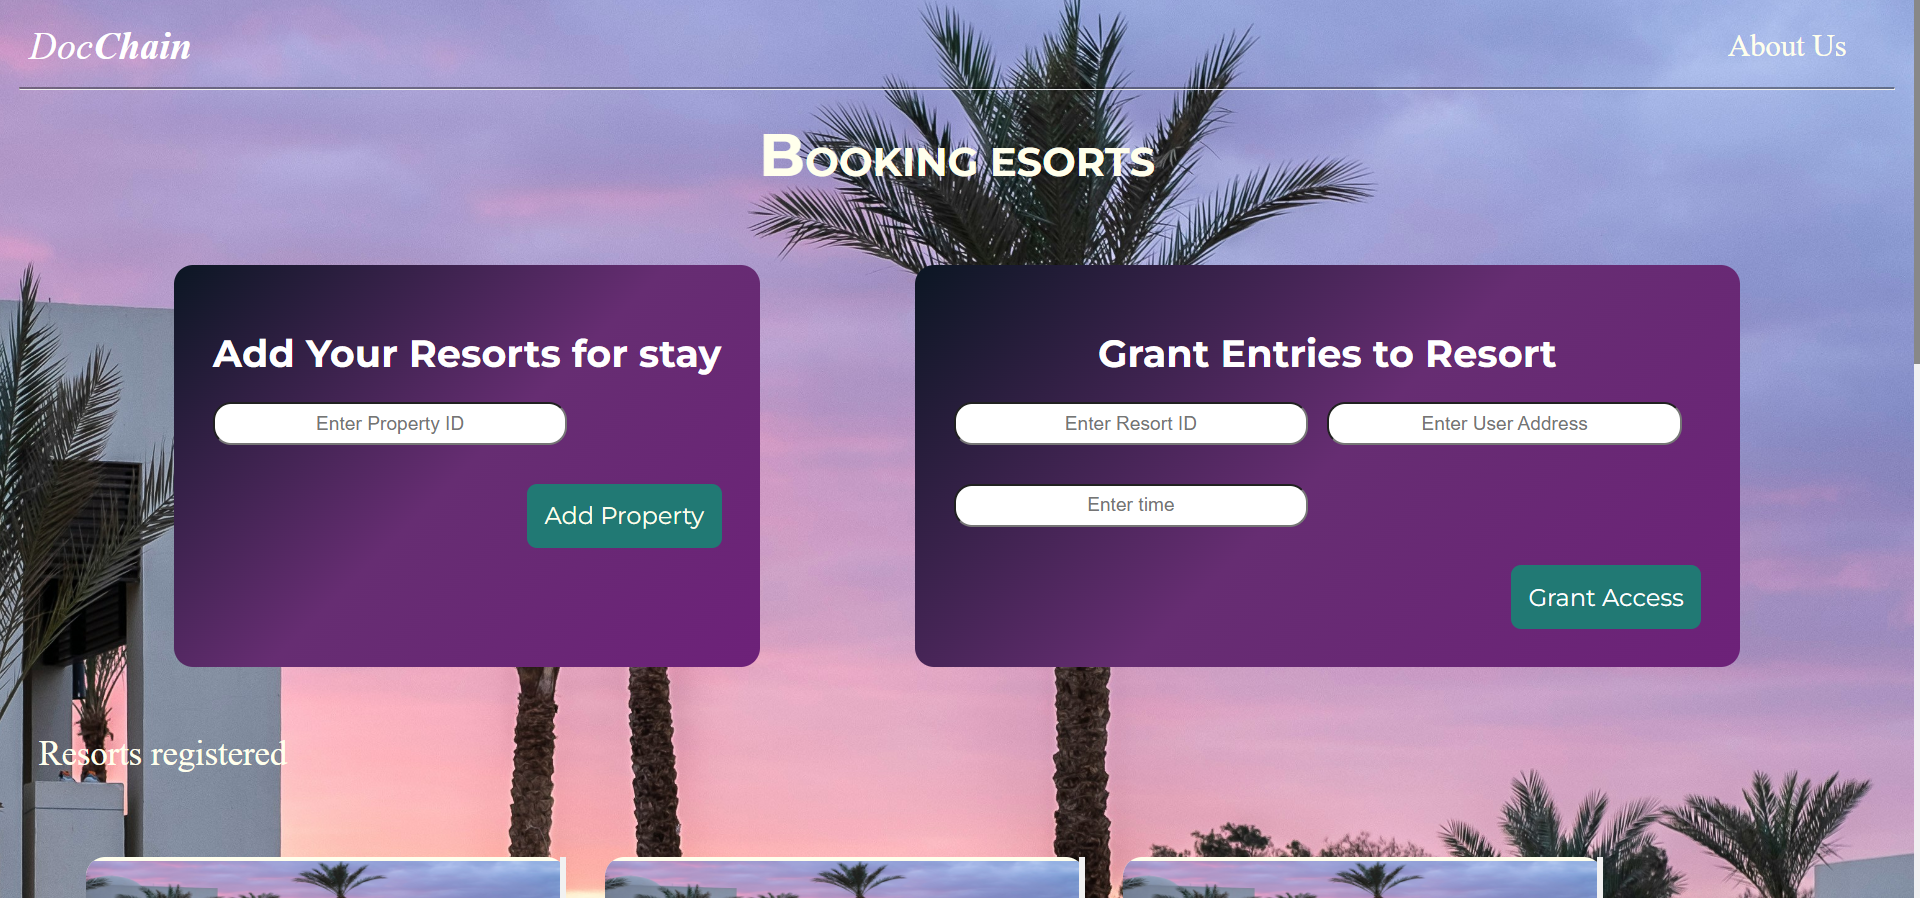
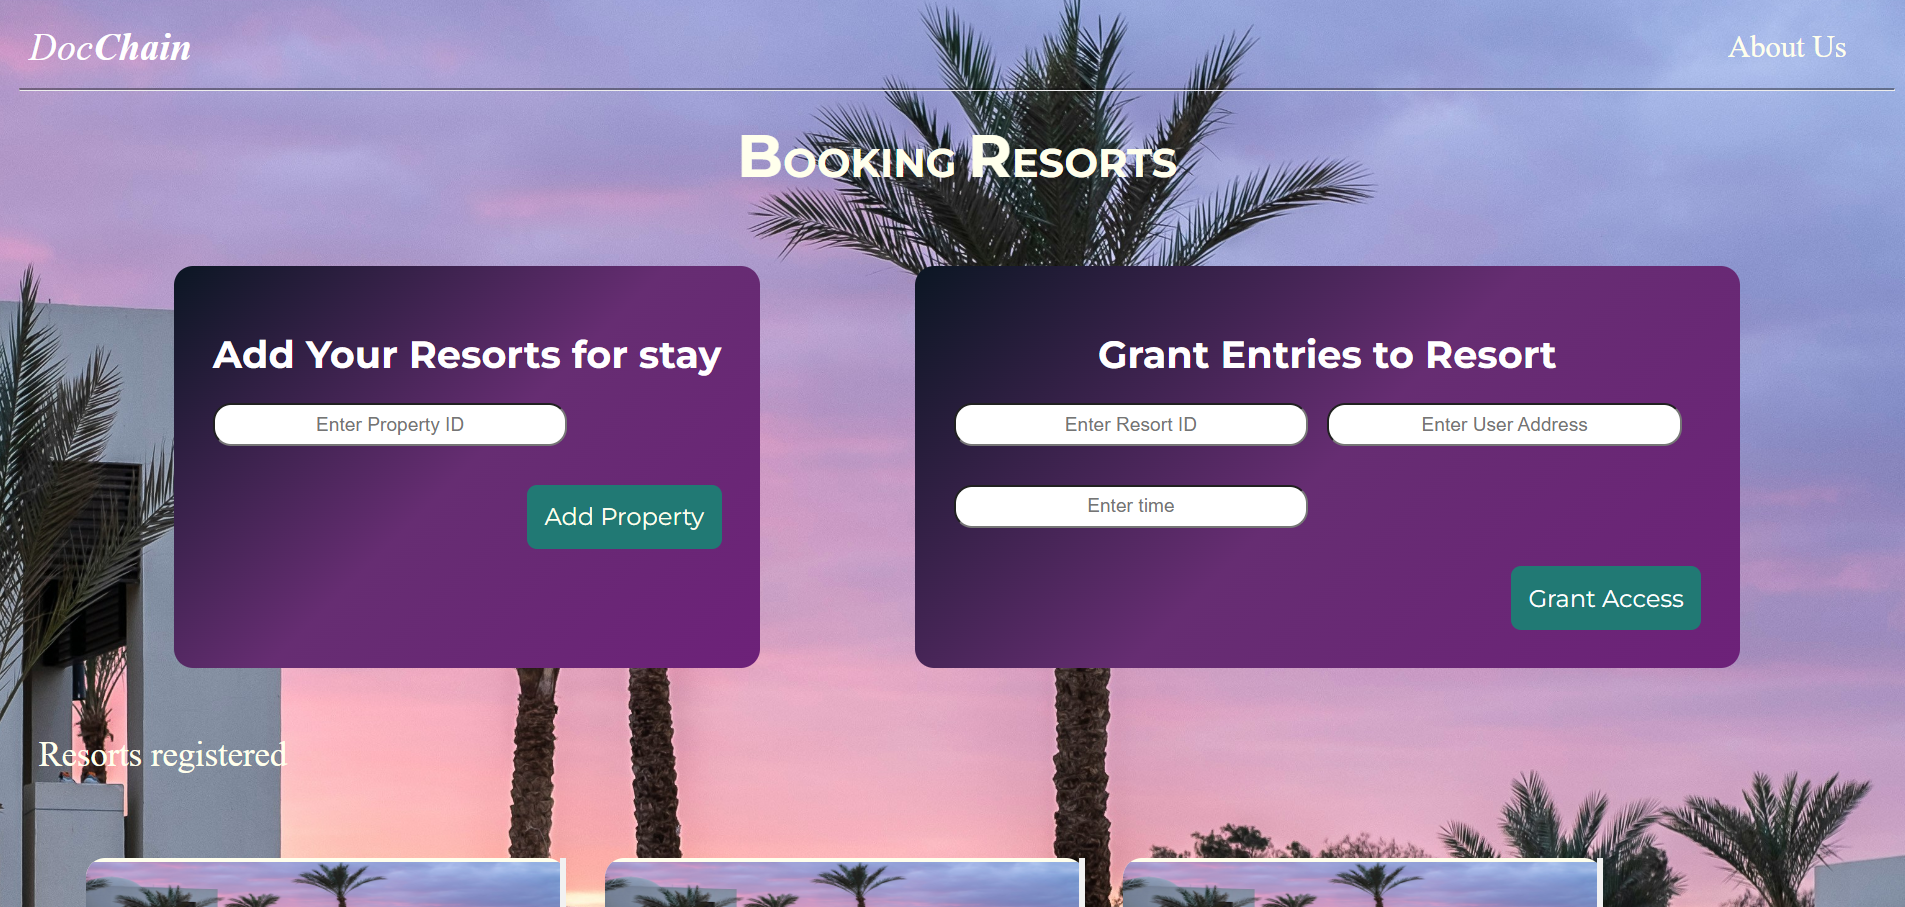
images added

diff --git a/src/components/BuildingAccess/BuildingAccess.js b/src/components/BuildingAccess/BuildingAccess.js
@@ -146,7 +146,7 @@ const HomePage = () => {
       <hr className="line" />
       <div className= "title"><h1>
 
-      <span>B</span>OOKING <span></span>ESORTS
+      <span>B</span>OOKING <span>R</span>ESORTS
           </h1></div>
       <br />
       <br />
